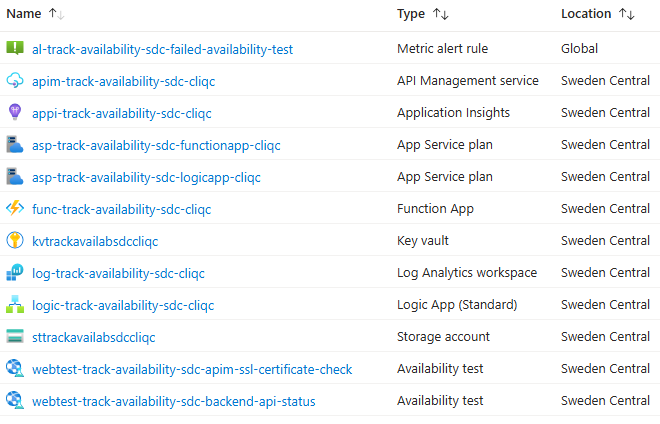
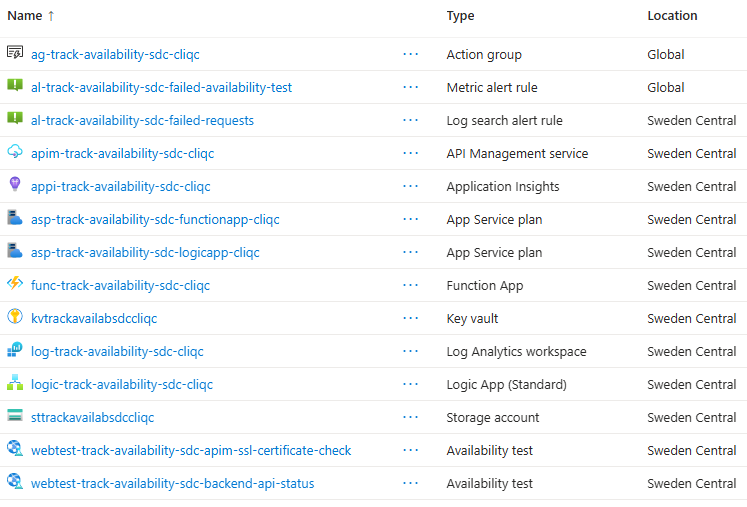
Add failed requests alert

diff --git a/demos/demo-availability-tests.md b/demos/demo-availability-tests.md
@@ -208,30 +208,46 @@ Show the SSL certificate expiry check.
 The backend API has been implemented to return a `503 Service Unavailable` status code for an approximate percentage of the time. 
 See the [Configure approximate failure percentage](https://github.com/ronaldbosma/track-availability-in-app-insights/tree/main#configure-approximate-failure-percentage) section in the README for more information.
 
-When a test fails, a 'failed availability test' alert is fired. Follow these steps to view the alert:
+There are two alerts included in the template to monitor the availability tests:
+- Failed availability test, which triggers when any of the availability tests fail.
+- Failed requests, which triggers when a failed request is logged in App Insights.
+
+Follow these steps to view the alerts:
 
 1. In the Azure Portal, navigate to Azure Monitor.
 
 1. Click on `Alerts` in the left menu.
 
-1. If an availability test failed, you should see alerts fired:  
+1. If an availability test or request failed, you should see alerts fired:  
 
    ![Alerts](https://raw.githubusercontent.com/ronaldbosma/track-availability-in-app-insights/refs/heads/main/images/alerts.png)
    
-1. Click on the alert to view the details. 
+1. For a 'failed availability test' alert, to see which test failed:
 
-1. Expand the 'Additional details'. The `availabilityResult/name` dimension specifies which test has failed.  
+   1. Click on the alert to view the details. 
 
-   ![Alert Details](https://raw.githubusercontent.com/ronaldbosma/track-availability-in-app-insights/refs/heads/main/images/alert-details.png)
+   1. Expand the 'Additional details'. The `availabilityResult/name` dimension specifies which test has failed.  
+
+      ![Alert Details](https://raw.githubusercontent.com/ronaldbosma/track-availability-in-app-insights/refs/heads/main/images/alert-details.png)
+
+1. For a 'failed request' alert, to see which requests failed:
+
+   1. Click on the alert to view the details. 
+
+   1. Click on the 'View results in Logs' link to view the failed requests in App Insights.
 
 1. Open the [alerts.bicep](https://github.com/ronaldbosma/track-availability-in-app-insights/blob/main/infra/modules/application/alerts.bicep) file to review the Bicep definition.  
 
-   A single alert is created that is triggered when any of the availability tests fail. 
+   An alert is created that is triggered when any of the availability tests fail. 
    This way we can also monitor availability tests that are exectuted from an Azure Function or Logic App workflow.  
    
    - The alert is evaluated every 5 minutes.
    - The alert triggers when an availability test doesn't succeed 100% of the time in the last 5 minutes.
    - By using a dimension, the alert is triggered for each test separately.
+
+   An alert is created that is triggered when failed requests are logged in App Insights.
+   - The alert is evaluated every 5 minutes.
+   - The alert triggers when there is at least 1 failed request in the last 5 minutes.
 
 #### Email Notification
 
